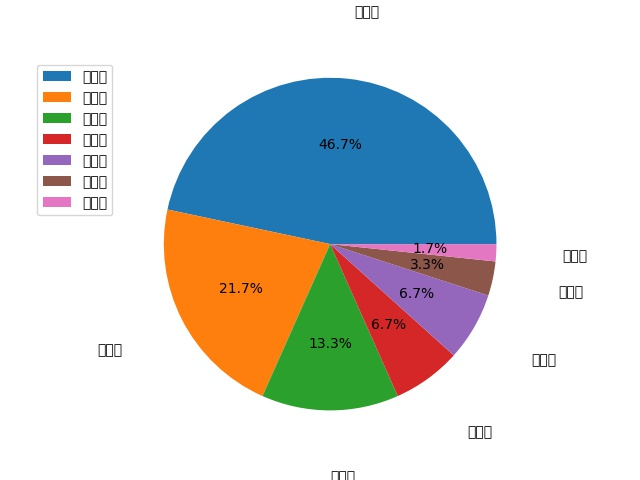
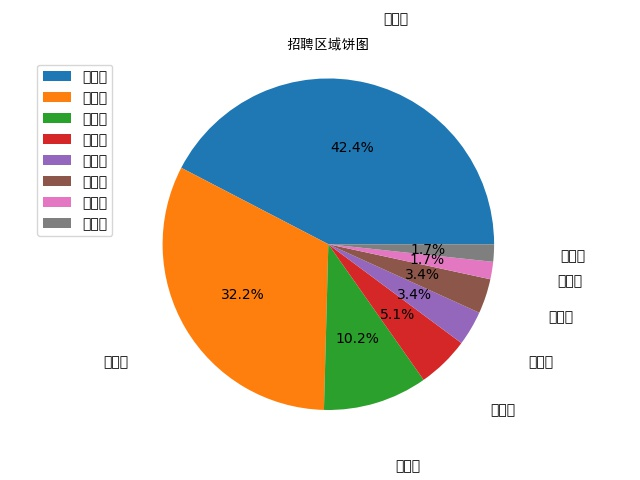
绘图统计

diff --git a/python/crawler/com/xzy/python/crawleroflagou/lagou.py b/python/crawler/com/xzy/python/crawleroflagou/lagou.py
@@ -46,11 +46,10 @@ def getjson(queryCode, page=1):
         'User-Agent': 'Mozilla/5.0 (Macintosh; Intel Mac OS X 10_12_6) AppleWebKit/537.36 (KHTML, like Gecko) Chrome/69.0.3497.100 Safari/537.36',
     }
 
-    # 设置代理
+    # # 设置代理
     # proxies = [
-    #     {'http': '140.143.96.216:80', 'https': '140.143.96.216:80'},
-    #     {'http': '119.27.177.169:80', 'https': '119.27.177.169:80'},
-    #     {'http': '221.7.255.168:8080', 'https': '221.7.255.168:8080'}
+    #     {'http': '192.168.2.90:80', 'https': '192.168.2.91:80'},
+    #     {'http': '192.168.2.92:80', 'https': '192.168.2.93:80'}
     # ]
 
     # 接口地址
@@ -117,8 +116,6 @@ if __name__ == '__main__':
         # 将数据放入列表中
         searchJobResult += page_python_job
         print('第{}页数据爬取完毕, 目前职位总数:{}'.format(i, len(searchJobResult)))
-        # 每次抓取完成后暂停一会防止被服务器拉黑
-        time.sleep(15)
 
         # 将总数据转化为data frame，再输出
         df = pd.DataFrame(data=searchJobResult,
@@ -179,6 +176,7 @@ if __name__ == '__main__':
     count = df['区域'].value_counts()
     plt.pie(count, labels=count.keys(), labeldistance=1.4, autopct='%2.1f%%')
     plt.axis('equal')  # 使饼图为正圆形
+    plt.title('招聘区域饼图', fontproperties=zhfont1)
     plt.legend(loc='upper left', bbox_to_anchor=(-0.1, 1))
     plt.savefig('image/pie_chart.jpg')
     plt.show()
@@ -198,6 +196,9 @@ if __name__ == '__main__':
     print(num)
     # 绘制学历要求直方图
     plt.bar(left=index, height=num, width=0.5)
+    plt.xlabel('学历', fontproperties=zhfont1)
+    plt.ylabel('要求企业数量', fontproperties=zhfont1)
+    plt.title('学历要求直方图', fontproperties=zhfont1)
     plt.savefig('image/education.jpg')
     plt.show()
 
